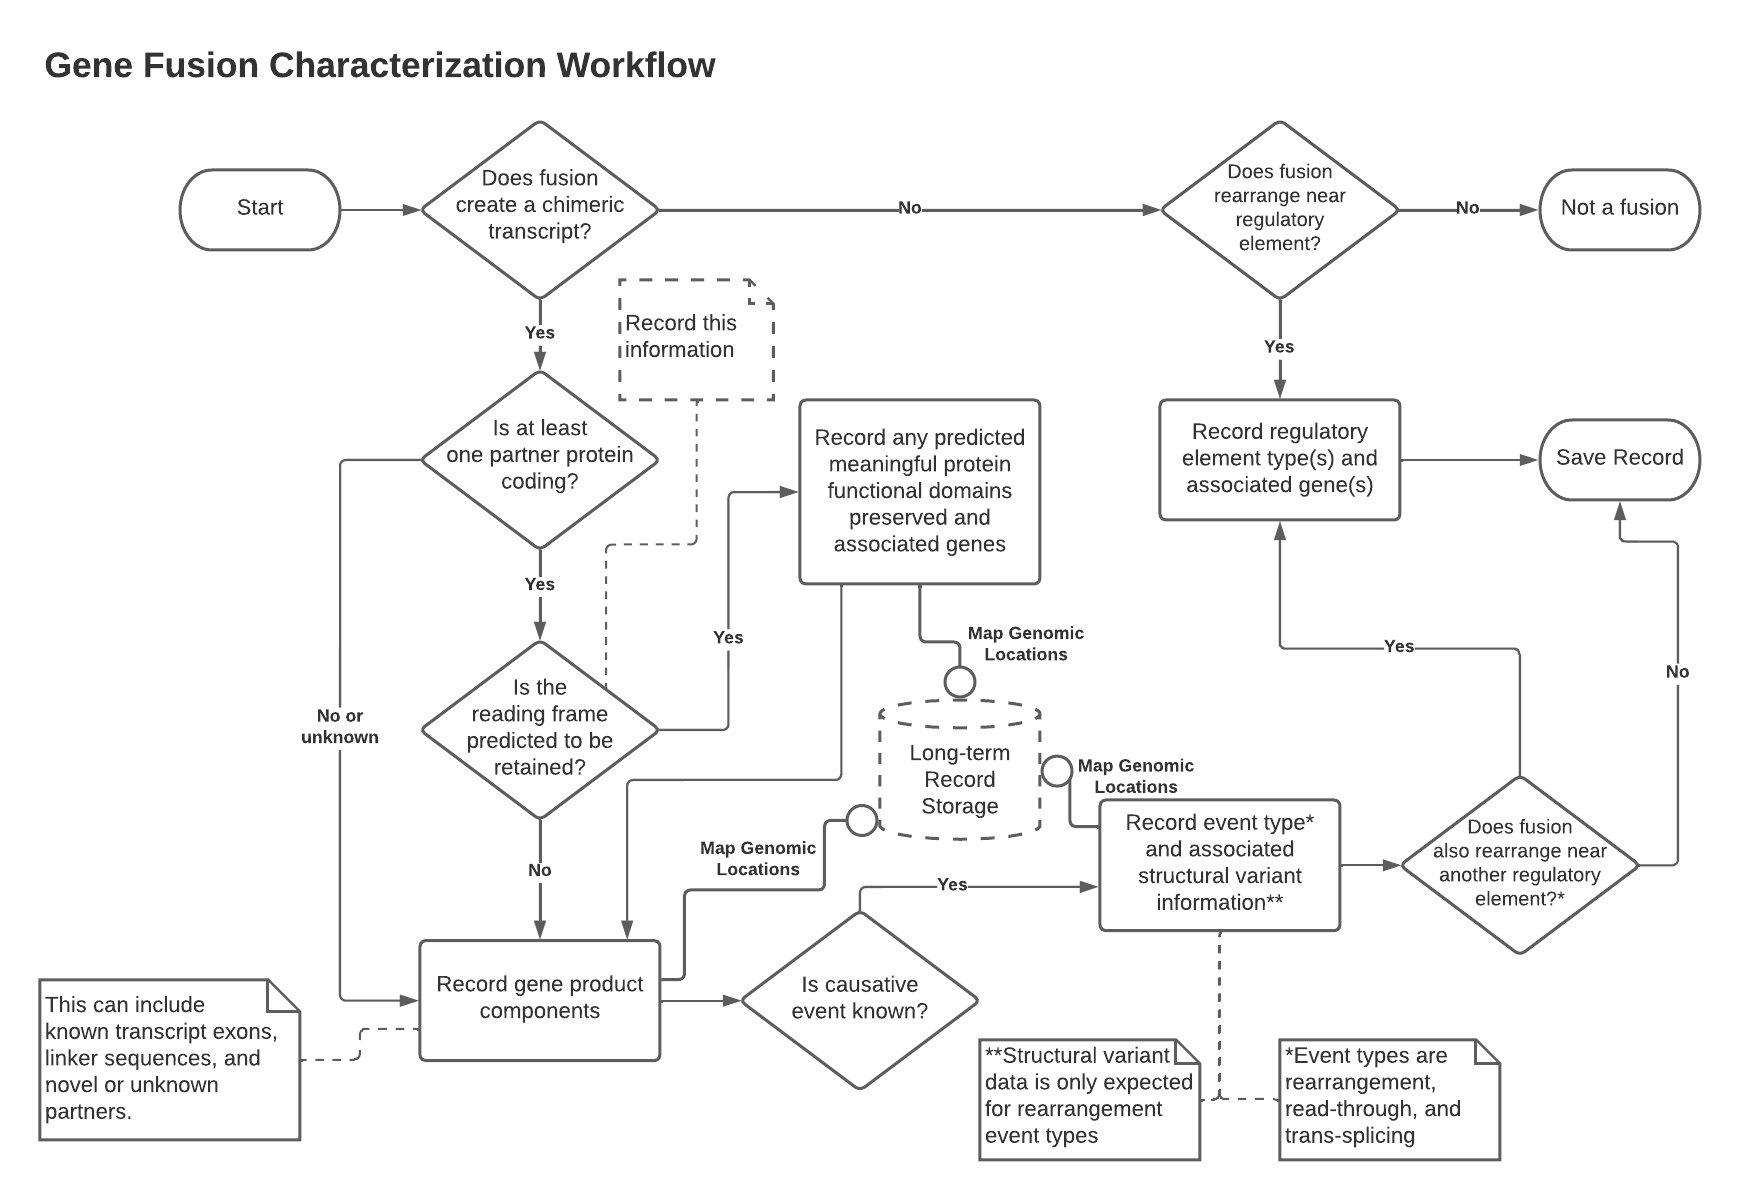
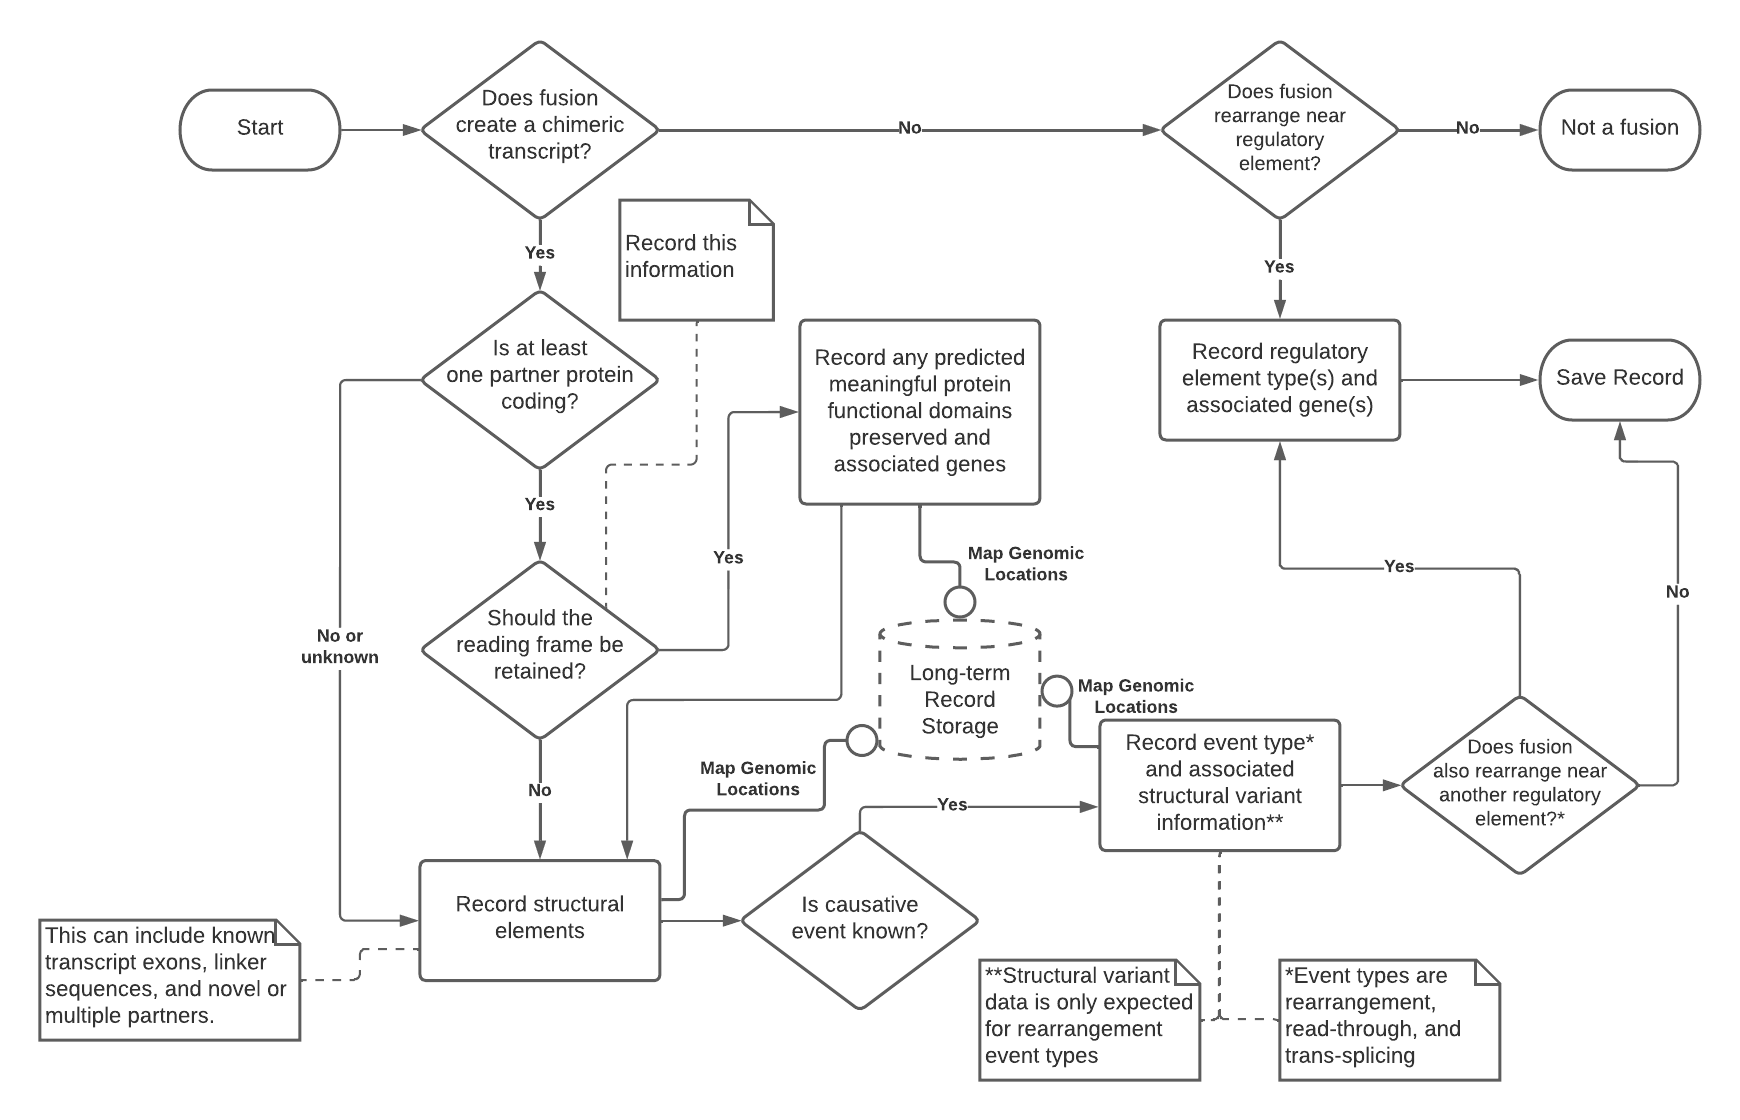
first pass finish

diff --git a/docs/source/conf.py b/docs/source/conf.py
@@ -30,6 +30,9 @@ def _parse_release_as_version(rls):
         return m.group(1)
     return rls
 
+def _get_rtd_version_tag():
+    return os.getenv('READTHEDOCS_VERSION', '')
+
 
 # -- Project information -----------------------------------------------------
 
@@ -40,11 +43,12 @@ master_doc = 'index'
 # N.B. RTD ignores these values. :-/
 release = _get_git_tag()
 version = _parse_release_as_version(release)
+branch = _get_rtd_version_tag() or release
 
 # -- Schema doc paths --------------------------------------------------------
 
 rst_epilog_fn = os.path.join(os.path.dirname(__file__), 'rst_epilog')
-rst_epilog = open(rst_epilog_fn).read().format(release=release)
+rst_epilog = open(rst_epilog_fn).read().format(release=release, branch=branch)
 
 # -- General configuration ---------------------------------------------------
 

diff --git a/docs/source/supporting_tools.rst b/docs/source/supporting_tools.rst
@@ -1,24 +1,32 @@
 Supporting Tools
 !!!!!!!!!!!!!!!!
-
-.. todo:: describe these tools in detail
-
-These tools assist in the curation and representation of gene fusion data. To do this,
-they must choose conventions that are not defined in these guidelines, specifically around
-data exchange. For example, these implementations choose to use `SequenceLocation`_ from the
-Global Alliance for Genomics and Health (GA4GH) `Variation Representation Specification (VRS)`_,
-due to its use of inter-residue coordinates and extensible design. Other implementations may choose
-different conventions for representation of gene fusion data in system exchange.
+.. note:: These tools assist in the curation and representation of gene fusion data. To do this,
+   they must choose conventions that are not defined in these guidelines, specifically around
+   data exchange. For example, these implementations choose to use `SequenceLocation`_ from the
+   Global Alliance for Genomics and Health (GA4GH) `Variation Representation Specification (VRS)`_,
+   due to its use of inter-residue coordinates and extensible design. Other implementations may choose
+   different conventions for representation of gene fusion data in system exchange.
 
 .. _Variation Representation Specification (VRS): https://vrs.ga4gh.org/en/1.2.1
 
 FUSOR
 @@@@@
 
-The FUSOR data validation / translation package. `Source code <https://github.com/cancervariants/fusor>`_
+The FUSOR data validation / translation Python package provides data classes and constructor tools to create valid
+gene fusion messages for use in downstream applications. The package is publicly available on the Python Package Index
+(PyPI).
+
+- `PyPI package <https://pypi.org/project/fusor>`_
+- `Source code <https://github.com/cancervariants/fusor>`_
+
+.. _fusion-curation-tool:
 
 Gene Fusion Curation Tool
 @@@@@@@@@@@@@@@@@@@@@@@@@
 
-Gene fusion curation educational web tool. `Webtool <https://go.osu.edu/fusion-curation-tool>`_ /
-`Source code <https://github.com/cancervariants/fusion-curation/>`_.
+Gene fusion curation educational web tool provides a user interface supporting gene fusion curation. This web tool
+is primarily an educational resource to demonstrate the computable structure and associated nomenclature for gene
+fusions constructed in the application.
+
+- `Webtool <https://go.osu.edu/fusion-curation-tool>`_ /
+- `Source code <https://github.com/cancervariants/fusion-curation/>`_.

diff --git a/docs/source/workflows.rst b/docs/source/workflows.rst
@@ -1,6 +1,12 @@
-Workflows
-!!!!!!!!!
-
-.. todo:: caption the workflow
+Curation Workflow
+!!!!!!!!!!!!!!!!!
 
 .. figure:: images/workflow.png
+
+   A workflow for the curation of gene fusions
+
+   This is a recommended workflow for the curation of gene fusions from the biomedical literature or for use in
+   biomedical knowledgebases.
+   Dashed lines indicate notes specific to certain decisions or actions taken in the workflow. Solid lines ending
+   in open circles represent automatable tasks using software, such as demonstrated in the
+   :ref:`fusion-curation-tool`.

diff --git a/docs/source/feedback.rst b/docs/source/feedback.rst
@@ -10,6 +10,6 @@ However, for widespread adoption, it is important that broader community input i
 continued development of these guidelines and alignment across the many stakeholders interested in the representation
 of gene fusions.
 
-Below is a summary the alignment efforts for this version of the specification (|release|):
+Below is a summary the alignment efforts for this version of the specification (|branch|):
 
 **Under development, continuous review**
